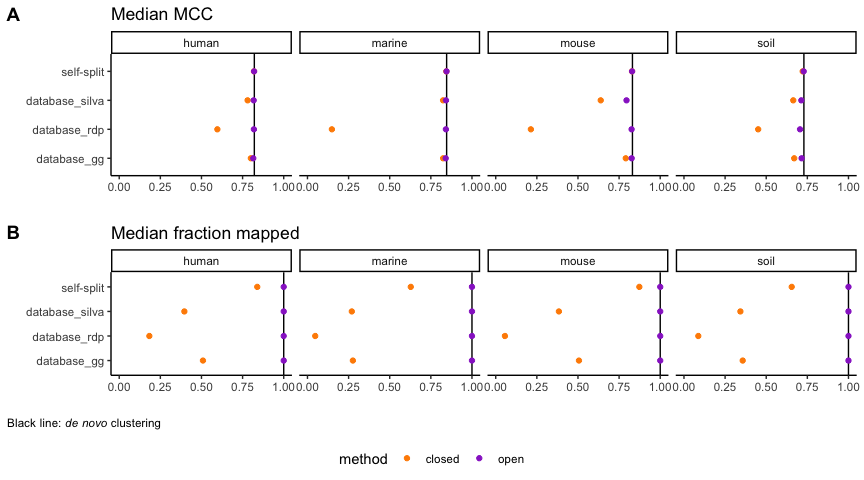
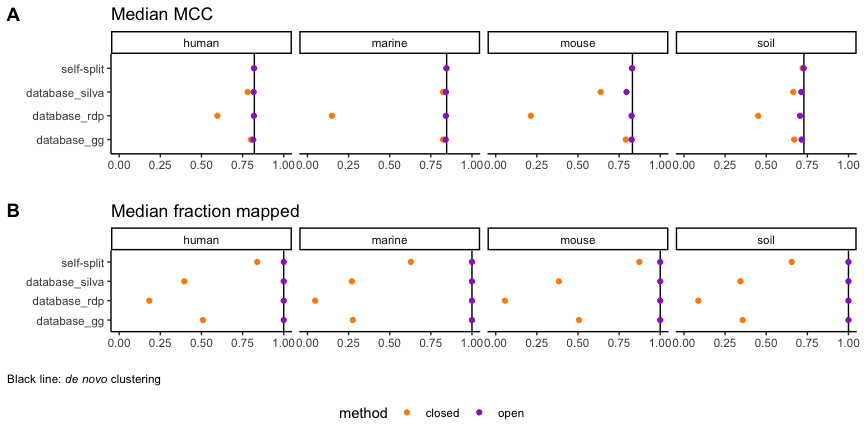
Edit cowplot from lab mtg feedback

diff --git a/exploratory/2021/compare-strategies_2021-05.md b/exploratory/2021/compare-strategies_2021-05.md
@@ -148,3 +148,60 @@ TODO:
 -   Remove excess whitespace around the legend.
     <https://wilkelab.org/cowplot/articles/shared_legends.html>
 -   Adjust figure dimensions.
+
+### Feedback from lab meeting
+
+-   [x] vertical jitter
+-   [x] frac map only makes sense for closed
+-   [x] dotted line for *de novo*
+-   [x] filled/unfilled for closed/open
+-   [x] box around facets
+-   [x] bigger points
+-   [ ] set theme elements to add space between facets:
+    `+ theme(panel.spacing = unit(c(3,3),'lines'))`
+-   generally: build for the dimensions required by the journal
+
+``` r
+plot_quality <- function(dat, y_val, title = '') {
+  dat %>% 
+    ggplot(aes(strategy, {{ y_val }}, 
+               #color = method, 
+               shape = method)) + 
+    geom_point(size = 3,
+               position = position_jitter(width = 0.3, height = 0)) +
+    facet_wrap(dataset ~ ., nrow=1) +
+    scale_shape_manual(values = list(open = 1, closed = 19)) +
+    #scale_color_manual(values = tri_colors) +
+    scale_y_continuous(labels = c('0', '0.5', '1'), 
+                       breaks = c(0, 0.5, 1),
+                       limits = c(0, 1)) +
+    coord_flip() +
+    labs(x = '', y = '', title = title) +
+    theme_bw()
+}
+mcc_plot <- sum_optifit %>% 
+  plot_quality(mcc_median, title = 'Median MCC') +
+    geom_hline(data = sum_opticlust, 
+               aes(yintercept = mcc_median), 
+               linetype = 'dashed', color = 'red')
+frac_plot <- sum_optifit %>% filter(method == 'closed') %>% 
+  plot_quality(frac_map_median, title = 'Median fraction mapped')  + 
+  labs(caption = "dashed line: _de novo_ clustering") +
+  theme(plot.caption = element_markdown(hjust = 0),
+        plot.caption.position = 'plot')
+
+shared_legend <- get_legend(mcc_plot + 
+                              guides(color = guide_legend(nrow = 1)) +
+                              theme(legend.position = "bottom")
+                            )
+
+main_plot <- plot_grid(mcc_plot + 
+    theme(legend.position="none"), frac_plot + 
+    theme(legend.position="none"), 
+                       ncol = 1, align = 'v', labels = 'AUTO')
+
+plot_grid(main_plot, shared_legend, 
+          ncol = 1, rel_heights = c(1, 0.1))
+```
+
+![](figures/otu-quality_cowplot-revised-1.png)<!-- -->
